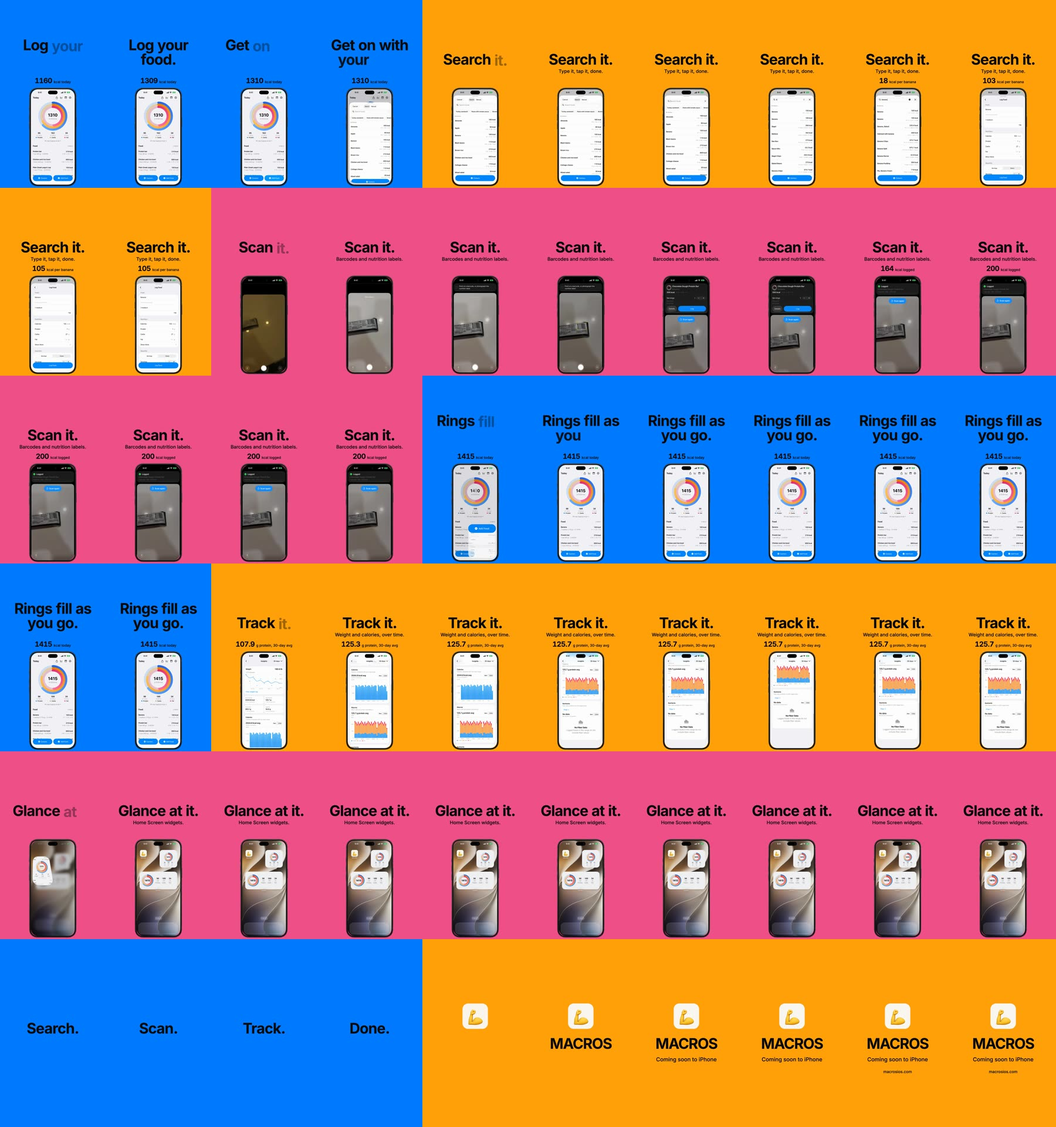
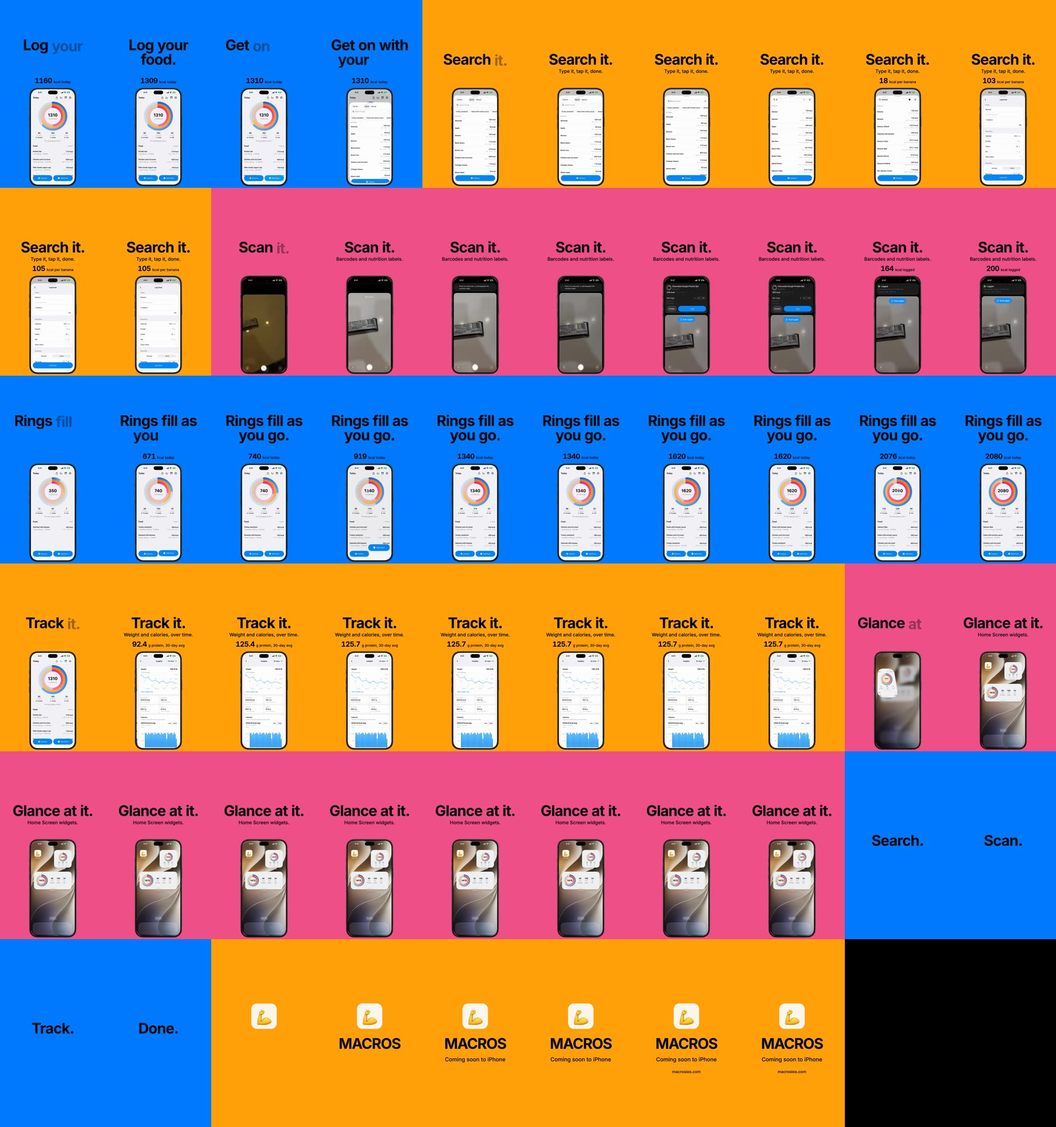
media: trailer v4 with real rings steps, Insights open, 29 s cut

diff --git a/tools/media/trailer/src/shots.ts b/tools/media/trailer/src/shots.ts
@@ -10,7 +10,10 @@ export type Phase = { at: number; words: string[] };
  * A number that counts beside the headline. Values come from what the recording shows.
  * A negative `at` starts the count before the cut, so the first frame is already moving.
  */
-export type Counter = { label: string; from: number; to: number; at: number; duration: number; decimals?: number };
+export type Counter = { label: string; from: number; to: number; at: number; duration: number; decimals?: number; steps?: CounterStep[] };
+
+/** A later move of the same counter, from wherever the previous move ended to `to`. */
+export type CounterStep = { to: number; at: number; duration: number };
 
 /** A full-screen 1320 x 2868 recording that plays inside the bezel. */
 export type Clip = { file: string; rate: number };
@@ -24,7 +27,7 @@ export type Shot =
 const none: Counter[] = [];
 const phase = (at: number, ...words: string[]): Phase => ({ at, words });
 
-// Cuts land on the 0.5 s grid. No clip plays faster than 1.2x.
+// Cuts land on the 0.5 s grid. No clip is sped up.
 export const SHOTS: Shot[] = [
   { kind: "device", start: 0, end: 2, color: COLORS.protein, clip: { file: "hook.mp4", rate: 1 },
     phases: [phase(0, "Log", "your", "food."), phase(1, "Get", "on", "with", "your", "day.")], support: "",
@@ -32,18 +35,23 @@ export const SHOTS: Shot[] = [
   { kind: "device", start: 2, end: 6, color: COLORS.carbs, clip: { file: "search.mp4", rate: 1 },
     phases: [phase(0, "Search", "it.")], support: "Type it, tap it, done.",
     counters: [{ label: "kcal per banana", from: 0, to: 105, at: 2.2, duration: 0.8 }] },
-  { kind: "device", start: 6, end: 12, color: COLORS.fat, clip: { file: "scan.mp4", rate: 1 },
+  { kind: "device", start: 6, end: 10, color: COLORS.fat, clip: { file: "scan.mp4", rate: 1 },
     phases: [phase(0, "Scan", "it.")], support: "Barcodes and nutrition labels.",
     counters: [{ label: "kcal logged", from: 0, to: 200, at: 3, duration: 0.8 }] },
-  { kind: "device", start: 12, end: 16, color: COLORS.protein, clip: { file: "rings.mp4", rate: 1 },
+  // rings.mp4: 0.6 s of Today at 350 kcal, then four 1.1 s moments on Today right after each Log Food (740, 1340, 1620, 2080 kcal).
+  { kind: "device", start: 10, end: 15, color: COLORS.protein, clip: { file: "rings.mp4", rate: 1 },
     phases: [phase(0, "Rings", "fill", "as", "you", "go.")], support: "",
-    counters: [{ label: "kcal today", from: 1310, to: 1415, at: -0.05, duration: 0.35 }] },
-  { kind: "device", start: 16, end: 20, color: COLORS.carbs, clip: { file: "insights.mp4", rate: 1.2 },
+    counters: [{ label: "kcal today", from: 350, to: 740, at: 0.6, duration: 0.45,
+      steps: [{ to: 1340, at: 1.7, duration: 0.45 }, { to: 1620, at: 2.8, duration: 0.45 }, { to: 2080, at: 3.9, duration: 0.45 }] }] },
+  { kind: "device", start: 15, end: 19, color: COLORS.carbs, clip: { file: "insights.mp4", rate: 1 },
     phases: [phase(0, "Track", "it.")], support: "Weight and calories, over time.",
-    counters: [{ label: "g protein, 30-day avg", from: 0, to: 125.7, at: -0.1, duration: 1, decimals: 1 }] },
-  { kind: "device", start: 20, end: 25, color: COLORS.fat, clip: { file: "home.mp4", rate: 1 },
+    counters: [{ label: "g protein, 30-day avg", from: 0, to: 125.7, at: 0.55, duration: 0.8, decimals: 1 }] },
+  { kind: "device", start: 19, end: 24, color: COLORS.fat, clip: { file: "home.mp4", rate: 1 },
     phases: [phase(0, "Glance", "at", "it.")], support: "Home Screen widgets.", counters: none },
-  { kind: "type", start: 25, end: 27, color: COLORS.protein,
+  { kind: "type", start: 24, end: 26, color: COLORS.protein,
     phases: [phase(0, "Search."), phase(0.5, "Scan."), phase(1, "Track."), phase(1.5, "Done.")], support: "", counters: none },
-  { kind: "end", start: 27, end: 30, color: COLORS.carbs, phases: [], support: "", counters: none },
+  { kind: "end", start: 26, end: 29, color: COLORS.carbs, phases: [], support: "", counters: none },
 ];
+
+export const FPS = 30;
+export const TOTAL_FRAMES = SHOTS[SHOTS.length - 1].end * FPS;

diff --git a/tools/media/trailer/scripts/prepare-sources.ts b/tools/media/trailer/scripts/prepare-sources.ts
@@ -1,7 +1,7 @@
 // Turns the raw 1320 x 2868 simulator takes into the 30 fps clips the composition reads.
 // Cuts only remove idle frames; no clip is sped up here.
 import { mkdirSync } from "node:fs";
-import { DEMO_VIDEO, PUBLIC_SOURCES, RAW_DIR, run } from "./paths.ts";
+import { DEMO_VIDEO, PUBLIC_SOURCES, RAW_DIR, RAW_DIR_V4, run } from "./paths.ts";
 
 type Segment = readonly [from: number, to: number];
 
@@ -9,7 +9,7 @@ const ENCODE = ["-an", "-c:v", "libx264", "-crf", "12", "-preset", "fast", "-r",
 
 /** Keeps the listed segments back to back (fps=30 first: simulator recordings are variable frame rate and drop idle frames); `holdEnd` repeats the last frame so a shot can rest on the result. */
 function cut(input: string, output: string, segments: Segment[], holdEnd = 0) {
-  const parts = segments.map(([from, to], i) => `[0:v]fps=30,trim=${from}:${to},setpts=PTS-STARTPTS[s${i}]`);
+  const parts = segments.map(([from, to], i) => `[0:v]fps=30,trim=start_frame=${Math.round(from * 30)}:end_frame=${Math.round(to * 30)},setpts=PTS-STARTPTS[s${i}]`);
   const joined = segments.map((_, i) => `[s${i}]`).join("");
   const hold = holdEnd > 0 ? `,tpad=stop_mode=clone:stop_duration=${holdEnd}` : "";
   const graph = `${parts.join(";")};${joined}concat=n=${segments.length}:v=1:a=0${hold}`;
@@ -37,8 +37,14 @@ const flow = `${RAW_DIR}/flow-take1.mov`;
 // Each moment appears once: the hook is Today before logging, Search stops at the Log tap, Rings starts at the dismissal.
 cut(flow, "hook.mp4", [[2.0, 4.0]]);
 cut(flow, "search.mp4", [[4.4, 5.3], [6.3, 7.6], [11.8, 12.6], [13.0, 13.9]], 0.1);
-cut(flow, "rings.mp4", [[14.0, 17.5]], 0.5);
 cut(flow, "home.mp4", [[17.6, 22.6]]);
-// Scan: camera, barcode, product card, Logged, from the original demo. It ends at 10.2 s, before the insights crossfade; the Logged card rests 2.1 s to make the 6 s shot.
-scan(DEMO_VIDEO, "scan.mp4", 6.3, 10.2, 10.2, 2.1);
-cut(`${RAW_DIR}/insights.mov`, "insights.mp4", [[1.5, 6.3]]);
+// Scan: camera, barcode, product card, Logged, from the original demo. It ends at 10.2 s, before the insights crossfade; the last frame rests 0.1 s to land the shot on the 0.5 s grid (4.0 s).
+scan(DEMO_VIDEO, "scan.mp4", 6.3, 10.2, 10.2, 0.1);
+
+// v4 takes (demo data, Today trimmed to one entry first). rings-take1: Today at 350 kcal, then four foods from the Add Food recents
+// (Turkey sandwich, Chicken and rice bowl, Pasta with tomato sauce, Salmon fillet). Each segment starts as the Log Food sheet leaves and
+// runs 1.1 s, so the ring finishes climbing and the new row shows (740, 1340, 1620, 2080 kcal). Sheets and idle time are cut.
+const rings = `${RAW_DIR_V4}/rings-take1.mov`;
+cut(rings, "rings.mp4", [[2.4, 3.0], [6.43, 7.53], [12.23, 13.33], [18.13, 19.23], [24.13, 25.23]]);
+// insights-take1: Today, tap the Insights button, the push, then rest on the top of Insights (4.0 s from the tap's lead-in).
+cut(`${RAW_DIR_V4}/insights-take1.mov`, "insights.mp4", [[4.2, 8.2]]);

diff --git a/tools/media/trailer/scripts/render.ts b/tools/media/trailer/scripts/render.ts
@@ -1,5 +1,6 @@
 // Renders the trailer MP4s and cover: bun run render <all | coming-soon | app-store | review | cover>
 import { OUT_DIR, run } from "./paths.ts";
+import { FPS, TOTAL_FRAMES } from "../src/shots.ts";
 import type { Props } from "../src/trailer.tsx";
 
 const COVER_FRAME = 30;
@@ -9,8 +10,9 @@ const remotion = (args: string[]) => run(["bunx", "remotion", ...args]);
 function renderVideo(props: Props, name: string) {
   const raw = `${OUT_DIR}/${name}-raw.mp4`;
   remotion(["render", "src/index.ts", "Trailer", raw, "--overwrite", `--props=${JSON.stringify(props)}`, "--codec=h264", "--crf=18", "--pixel-format=yuv420p", "--audio-codec=aac", "--enforce-audio-track"]);
-  // Remotion's AAC track runs a few ms long; trimming to 29.99 s keeps exactly 900 video frames and 30.000 s.
-  run(["ffmpeg", "-hide_banner", "-loglevel", "error", "-i", raw, "-map", "0", "-c", "copy", "-t", "29.99", "-movflags", "+faststart", "-y", `${OUT_DIR}/${name}.mp4`]);
+  // Remotion's AAC track runs a few ms long; ending the copy 10 ms before the last frame's end keeps exactly TOTAL_FRAMES video frames and a container duration of TOTAL_FRAMES / FPS.
+  const cutoff = (TOTAL_FRAMES / FPS - 0.01).toFixed(3);
+  run(["ffmpeg", "-hide_banner", "-loglevel", "error", "-i", raw, "-map", "0", "-c", "copy", "-t", cutoff, "-movflags", "+faststart", "-y", `${OUT_DIR}/${name}.mp4`]);
   run(["rm", raw]);
 }
 

diff --git a/tools/media/trailer/src/text.tsx b/tools/media/trailer/src/text.tsx
@@ -29,8 +29,12 @@ function activePhase(phases: Phase[], seconds: number): Phase | undefined {
 }
 
 const CounterView: React.FC<{ counter: Counter }> = ({ counter }) => {
+  const frame = useCurrentFrame();
+  const { fps } = useVideoConfig();
   const progress = useReveal(counter.at, counter.duration);
-  const value = counter.from + (counter.to - counter.from) * progress;
+  const moves = [counter, ...(counter.steps ?? [])];
+  const value = moves.reduce((from, move) =>
+    interpolate(frame, [move.at * fps, (move.at + move.duration) * fps], [from, move.to], { extrapolateLeft: "clamp", extrapolateRight: "clamp", easing: ease }), counter.from);
   // Hidden until the count starts, so no counter ever rests on its starting value.
   return <div style={{ display: "flex", justifyContent: "center", alignItems: "baseline", gap: 16, opacity: progress > 0 ? 1 : 0 }}>
     <span style={{ fontSize: 72, fontWeight: 700, letterSpacing: "-0.03em", fontVariantNumeric: "tabular-nums" }}>{value.toFixed(counter.decimals ?? 0)}</span>

diff --git a/tools/media/trailer/src/root.tsx b/tools/media/trailer/src/root.tsx
@@ -1,9 +1,10 @@
 import React from "react";
 import { Composition } from "remotion";
+import { FPS, TOTAL_FRAMES } from "./shots";
 import { Trailer, type Props } from "./trailer";
 
 const defaultProps: Props = { variant: "coming-soon", safeZones: false };
 
 export const Root: React.FC = () => (
-  <Composition id="Trailer" component={Trailer} width={1080} height={1920} fps={30} durationInFrames={900} defaultProps={defaultProps} />
+  <Composition id="Trailer" component={Trailer} width={1080} height={1920} fps={FPS} durationInFrames={TOTAL_FRAMES} defaultProps={defaultProps} />
 );

diff --git a/tools/media/trailer/scripts/paths.ts b/tools/media/trailer/scripts/paths.ts
@@ -6,6 +6,7 @@ const fromRoot = (path: string) => fileURLToPath(new URL(`../../../../${path}`, 
 export const REPO_ROOT = fromRoot("");
 export const OUT_DIR = fromRoot("build/marketing/trailer");
 export const RAW_DIR = fromRoot("build/marketing/trailer/sources/v3");
+export const RAW_DIR_V4 = fromRoot("build/marketing/trailer/sources/v4");
 export const PUBLIC_SOURCES = fromRoot("tools/media/trailer/public/sources");
 export const DEMO_VIDEO = fromRoot("web/public/media/macros-demo.d72c87d2.mp4");
 

diff --git a/docs/evidence/trailer/README.md b/docs/evidence/trailer/README.md
@@ -1,77 +1,63 @@
-# Launch trailer v3 render evidence
+# Launch trailer v4 render evidence
 
 Plan: `docs/plans/active/launch-trailer.md`. Project: `tools/media/trailer/`. Renders, raw takes, the Apple bezel and the badge stay in ignored folders.
 
-v3 keeps only the bold style. Every app shot is inside Apple's iPhone 18 Pro Max bezel at one fixed size and position. There are no bezel-free close-ups, no square widget crop and no push-ins. The restrained style and its renders were removed.
+v4 applies the owner's review to v3: Track it shows the act of opening Insights, Rings fills with real entries one after another, Scan loses its frozen hold, and the length is now 29.0 s. Everything else is unchanged: one bold style, Apple's iPhone 18 Pro Max bezel at one fixed size and position, no crops or push-ins.
 
 Toolchain: Bun 1.4.2, Remotion 4.0.543, ffmpeg, macOS. Renders are in `build/marketing/trailer/`: `coming-soon.mp4`, `app-store.mp4`, `review.mp4` (safe-zone outlines), `cover.png`, from `bun run render all`.
 
 ## Simulator steps
 
-Media simulator `D16C3D35-889F-404F-BDD4-C640A6DBC4EF` only, under `/tmp/macros-sim-locks/D16C3D35-889F-404F-BDD4-C640A6DBC4EF` (taken by `mkdir`, released by `rmdir`). The v2 Debug build of `origin/main` (`/tmp/macros-trailer-build`) was installed. Settings > Developer > Load Demo Data (Today 1310 kcal), 9:41 status bar override (full cellular, Wi-Fi, charged battery), `simctl io recordVideo --codec h264`. Taps came from `agent-device`. The simulator was shut down once mid-session to clear a stuck recorder (`Host recording is already in progress`) and booted again; the lock was kept. At the end the override was cleared, the simulator shut down and the lock removed. No other simulator was used and nothing was erased.
+Media simulator `D16C3D35-889F-404F-BDD4-C640A6DBC4EF` only, under `/tmp/macros-sim-locks/D16C3D35-889F-404F-BDD4-C640A6DBC4EF` (taken by `mkdir`, released by `rmdir`). The earlier Debug build of `origin/main` (`/tmp/macros-trailer-build`) was already installed and was reused. 9:41 status bar override (full cellular, Wi-Fi, charged battery). Taps and swipes came from the `axe` binary bundled with XcodeBuildMCP, run with `DEVELOPER_DIR=/Applications/Xcode.app/Contents/Developer` because the MCP's own Xcode path lacked SimulatorKit. Recording: `simctl io recordVideo --codec h264 --force`, stopped with SIGINT. At the end the override was cleared, the simulator shut down and the lock removed. No other simulator was used and nothing was erased or reset. The Home Screen was not touched.
 
-Raw takes (`build/marketing/trailer/sources/v3/`, 1320 x 2868 native, 9:41 status bar): `flow-take1.mov` (23.3 s), `insights.mov` (copied from the v2 take, 6.9 s). `scan-take2.mov` (19.4 s) is no longer used by any shot; it stays on disk. `scan-take1.mov` and `home-take1.mov` were rejected earlier takes (the Home Screen one still had other apps).
+Raw takes (`build/marketing/trailer/sources/v4/`, 1320 x 2868 native):
+
+- `rings-take1.mov` (25.4 s): Today first trimmed by swipe-deleting four of the five demo entries (350 kcal left, Oatmeal with banana). Then four times: Add Food, tap a recent food chip, Log Food.
+- `insights-take1.mov` (9.6 s): Today at 1310 kcal, tap the Insights button, rest on the top of Insights. Debug Pro was granted first (Settings > Developer), after reloading demo data. Demo data was reloaded again after the rings take, so Today read 1310 kcal.
 
 ## Sources per shot
 
 | Time | Shot | Source and in/out | Rate |
 | --- | --- | --- | --- |
-| 0-2 s | Hook | `flow-take1.mov` 2.0-4.0 s: Today at 1310 before any log | 1.0x |
-| 2-6 s | Search | `flow-take1.mov` 4.4-5.3, 6.3-7.6, 11.8-12.6, 13.0-13.9 s (+0.1 s hold): Add Food, "banana" results, Log Food form | 1.0x |
-| 6-12 s | Scan | `web/public/media/macros-demo.d72c87d2.mp4` 6.3-10.2 s (+2.1 s hold of the last frame), body crop x 112, y 222, 496 x 1004, status bar strip x 112, y 148-221 from 10.2 s: camera, barcode, Chocolate Dough Protein Bar (200 kcal), Logged | 1.0x |
-| 12-16 s | Rings | `flow-take1.mov` 14.0-17.5 s (+0.5 s hold): Log Food tapped, sheet dismisses, 1310 to 1415 | 1.0x |
-| 16-20 s | Track | `insights.mov` 1.5-6.3 s | 1.2x |
-| 20-25 s | Glance | `flow-take1.mov` 17.6-22.6 s: Home Screen right after logging, widgets show 1415 | 1.0x |
-| 25-30 s | Type, end card | none | |
+| 0-2 s | Hook | `v3/flow-take1.mov` 2.0-4.0 s | 1.0x |
+| 2-6 s | Search | `v3/flow-take1.mov` 4.4-5.3, 6.3-7.6, 11.8-12.6, 13.0-13.9 s (+0.1 s hold) | 1.0x |
+| 6-10 s | Scan | `web/public/media/macros-demo.d72c87d2.mp4` 6.3-10.2 s (+0.1 s hold of the last frame), same crop and status bar strip as v3 | 1.0x |
+| 10-15 s | Rings | `v4/rings-take1.mov` 2.4-3.0, 6.43-7.53, 12.23-13.33, 18.13-19.23, 24.13-25.23 s | 1.0x |
+| 15-19 s | Track | `v4/insights-take1.mov` 4.2-8.2 s: Today, tap, push, rest on the top of Insights | 1.0x |
+| 19-24 s | Glance | `v3/flow-take1.mov` 17.6-22.6 s | 1.0x |
+| 24-29 s | Type, end card | none | |
 
-Each real moment appears once: the hook is Today before logging, Search ends before the Log tap, Rings starts at the dismissal. Idle time was cut; nothing is sped up except Insights at 1.2x. The Scan source ends at 10.2 s, before the "Track it." pill and the crossfade into Insights. Its Logged card holds for 2.1 s to make the shot 6.0 s, so Scan is not sped up either.
+## What was cut
 
-## Scan footage chosen
+- Scan: the 2.1 s frozen hold is gone. The footage (3.9 s) now ends the shot at 4.0 s, the nearest 0.5 s grid point (0.1 s hold).
+- Rings: all sheets, the Add Food and Log Food screens and idle time. Each Today moment starts as the Log Food sheet leaves and lasts 1.1 s, long enough for the ring animation to finish. The first 0.6 s is Today at 350 kcal.
+- Track: no scrolling. The "Nutrients / No Fiber Data" section never appears; the shot ends on the top of Insights.
+- The total went from 30.0 s to 29.0 s. Later shots moved 1 s earlier to fit the 0.5 s grid.
 
-The Scan shot uses the original demo footage, `web/public/media/macros-demo.d72c87d2.mp4` (720 x 1280, 60 fps), the same source v2 used. The native 1320 x 2868 take `scan-take2.mov` is no longer used. The clip is not upscaled: 496 source pixels fit the 449-pixel opening at about 0.9x.
+## Rings kcal steps
 
-Splice: the body is the crop below the burnt-in "Scan it." pill (x 112, y 222, 496 x 1004). The pill sits over the real status bar until about 10 s, so the status bar strip is taken from 10.2 s, when the pill is gone: rows 148-221 show the recording's own 9:41 status bar and battery. Rows 0-145 are the page's light grey background, not a status bar, so they are not used. The strip stacks above the body to make 496 x 1078. That is the same aspect as the 1320 x 2868 screen opening, so the cover fit crops almost nothing. The seam looks clean at full size (checked at 7.0 s). Nothing is drawn or faked.
+Counter above the phone follows the real value on Today: 350 (start) then 740 (Turkey sandwich, +390), 1340 (Chicken and rice bowl, +600), 1620 (Pasta with tomato sauce, +280), 2080 (Salmon fillet, +460). Macro totals on Today: protein 38, 86, 95, 145 g; carbs 104, 174, 226, 226 g; fat 19, 33, 37, 65 g. Food list grows from 2 to 5 items. Each step counts over 0.45 s. No invented numbers; Salmon fillet has no carbs value in the app, so carbs stays at 226.
 
-Counter: 0 to 200 kcal, the Chocolate Dough Protein Bar result, starting 3.0 s into the shot as the card becomes Logged. It replaces the Nutella 539 kcal of the scan-take2 take. The Device component now sets `objectFit: cover`; the other clips already have the screen's aspect, so their render is unchanged.
-
-## Home Screen changes (media simulator, undo list)
-
-The Home Screen was cleaned so no third-party content shows. Only long-press > "Remove from Home Screen" was used, so the apps remain in the App Library and nothing was deleted or erased. Reminders and Preview were removed that way (both seen in the menus); I removed the other stock icons the same way, but I did not record the full list. To undo: open the App Library on the media simulator, long-press each app and choose "Add to Home Screen". The first page now has only the MACROS icon, the small MACROS widget and the large MACROS widget (both were already on the page, and show 1415 right after the logging take).
+Other counters are as in v3: Hook 0 to 1310, Search 0 to 105, Scan 0 to 200, Track 0 to 125.7 g protein (30-day average, from the Insights screen).
 
 ## Contrast (`bun run contrast`)
 
-| Text | Background | Ratio |
-| --- | --- | --- |
-| `#0A0A0C` | protein `#007AFF` | 4.92:1 |
-| `#0A0A0C` | carbs `#FF9F0A` | 9.62:1 |
-| `#0A0A0C` | fat `#EF4F87` | 5.78:1 |
-
-All at least 4.5:1. White on these colours would be 4.02, 2.06 and 3.42:1, so it is not used.
-
-## Counters
-
-Values match the recordings. Hook 0 to 1310 kcal (Today's ring). Search 0 to 105 kcal (Banana's Log Food form). Scan 0 to 200 kcal (Chocolate Dough Protein Bar, 1 serving, Logged). Rings 1310 to 1415 kcal. Track 0 to 125.7 g protein 30-day average (Insights). The Track counter starts at the cut (it reads 107.9 about 0.1 s in) and lands within 1 s. Counters stay hidden until counting begins, so none rests at 0.
+Near-black `#0A0A0C` on protein `#007AFF` 4.92:1, carbs `#FF9F0A` 9.62:1, fat `#EF4F87` 5.78:1. Unchanged; all at least 4.5:1.
 
 ## Checks run
 
-- ffprobe on all three MP4s: h264, yuv420p, 1080 x 1920, 900 frames (counted), 30.000 s, stereo AAC 48 kHz.
-- Scan clip `scan.mp4`: 496 x 1078, yuv420p, 180 frames, 6.000 s.
-- `bunx tsc --noEmit` and `git diff --check`: both pass.
-- Full-size frames at 7.0, 9.0 and 11.0 s viewed: bezel intact, no pill, real 9:41 status bar, counter 200 kcal logged at 11.0 s.
-- Contact sheet and review sheet regenerated from the new renders.
+All three MP4s: h264, yuv420p, 1080 x 1920, 30 fps, 870 frames (counted), 29.000 s (frames / 30), stereo AAC 48 kHz. The `render.ts` remux now takes its length from `TOTAL_FRAMES` in `src/shots.ts`, so any whole-frame duration gives an exact frame count. `bunx tsc --noEmit` and `git diff --check` pass. Clips (`prepare:sources`): hook 60, search 120, scan 120, rings 150, insights 120, home 150 frames. Text stays inside x 120-960, y 380-1440 as in v3 (layout unchanged).
 
-## Images
+## Images (5, about 0.85 MiB)
 
 - `contact-2fps.jpg`: 10 x 6 at 180 px.
 - `review-1fps.jpg`: 10 x 3 with safe-zone outlines.
-- `frames-7-9-11s.jpg`: full-size frames at 7.0, 9.0 and 11.0 s, side by side. Replaces `frames-5-10.5-23s.jpg`.
-- `end-cards-29s.jpg`: coming-soon and app-store at 29.0 s.
-
-Total about 0.84 MiB.
+- `rings-steps.jpg`: Rings shot at 11.5, 12.6, 13.7 and 14.8 s: 740, 1340, 1620, 2080 kcal.
+- `insights-17.5s.jpg`: Insights shot, top of the screen.
+- `end-cards-28.5s.jpg`: coming-soon and app-store at 28.5 s.
 
 ## Not verified
 
-- I did not keep a list of every icon removed from the Home Screen; the App Library undo above works per app. I did not test it.
-- The 9.0 s frame shows the original recording's own card cross-fade (ghosted text). It is not edited.
+- No audio beyond silence; the owner adds music.
 - The bezel rules and badge placement were checked by eye, not by Apple.
-- No audio beyond silence. The owner adds music.
+- The Scan footage's own card cross-fade (ghosted text) is original and not edited.

diff --git a/tools/media/trailer/README.md b/tools/media/trailer/README.md
@@ -1,6 +1,6 @@
 # MACROS launch trailer
 
-This Remotion project renders the 30-second vertical MACROS trailer in one bold style: full-screen ring-colour fields, near-black 150 px headlines revealed word by word, small counters taken from the footage, and every app shot inside Apple's unmodified iPhone 18 Pro Max bezel at one fixed size and place. No push-ins, no bezel-free crops. Plan: `docs/plans/active/launch-trailer.md`. Evidence: `docs/evidence/trailer/`.
+This Remotion project renders the 29-second vertical MACROS trailer in one bold style: full-screen ring-colour fields, near-black 150 px headlines revealed word by word, small counters taken from the footage, and every app shot inside Apple's unmodified iPhone 18 Pro Max bezel at one fixed size and place. No push-ins, no bezel-free crops. Plan: `docs/plans/active/launch-trailer.md`. Evidence: `docs/evidence/trailer/`.
 
 Two end cards (`coming-soon`, `app-store`). Props: `variant`, `safeZones`.
 
@@ -16,7 +16,7 @@ bun run render app-store          # one render (coming-soon | app-store | review
 bun run contrast                  # contrast ratios on the three colour fields
 ```
 
-Each MP4 is 1080 × 1920, 30 fps, 900 frames, h264 yuv420p, stereo AAC (silent). `scripts/render.ts` renders, then remuxes to exactly 900 frames and 30.000 s. Check with ffprobe.
+Each MP4 is 1080 × 1920, 30 fps, 870 frames, h264 yuv420p, stereo AAC (silent). The length comes from the last shot's end in `src/shots.ts` (`TOTAL_FRAMES`); any whole-frame duration works. `scripts/render.ts` renders, then remuxes to exactly that frame count and `frames / 30` seconds. Check with ffprobe.
 
 ## Shot table
 
@@ -24,16 +24,16 @@ All shots live in `src/shots.ts` as data: time, colour, headline phases, support
 
 ## Sources
 
-None of these are tracked. Raw takes are native 1320 x 2868 simulator recordings from the media simulator, in `build/marketing/trailer/sources/v3/`. `bun run prepare:sources` cuts them into the clips the composition reads (`tools/media/trailer/public/sources/`, ignored): it normalises to 30 fps, removes idle frames and never speeds a clip up.
+None of these are tracked. Raw takes are native 1320 x 2868 simulator recordings from the media simulator, in `build/marketing/trailer/sources/v3/` (hook, search, home) and `v4/` (rings, insights). `bun run prepare:sources` cuts them into the clips the composition reads (`tools/media/trailer/public/sources/`, ignored): it normalises to 30 fps, removes idle frames and never speeds a clip up.
 
 | Raw take | Clip | Shot |
 | --- | --- | --- |
-| `flow-take1.mov` 2.0-4.0 s | `hook.mp4` | Hook: Today before logging |
-| `flow-take1.mov` 4.4-5.3, 6.3-7.6, 11.8-12.6, 13.0-13.9 s | `search.mp4` | Search it. |
-| `web/public/media/macros-demo.d72c87d2.mp4` 6.3-10.2 s, cropped to x 112, y 222 (496 x 1028) under a status bar strip from 10.2 s, Logged card held 2.1 s | `scan.mp4` | Scan it. |
-| `flow-take1.mov` 14.0-17.5 s, last frame held 0.5 s | `rings.mp4` | Rings fill as you go. |
-| `insights.mov` 1.5-6.3 s | `insights.mp4` | Track it. (1.2x) |
-| `flow-take1.mov` 17.6-22.6 s | `home.mp4` | Glance at it. |
+| `v3/flow-take1.mov` 2.0-4.0 s | `hook.mp4` | Hook: Today before logging |
+| `v3/flow-take1.mov` 4.4-5.3, 6.3-7.6, 11.8-12.6, 13.0-13.9 s | `search.mp4` | Search it. |
+| `web/public/media/macros-demo.d72c87d2.mp4` 6.3-10.2 s, cropped to x 112, y 222 (496 x 1028) under a status bar strip from 10.2 s, last frame held 0.1 s | `scan.mp4` | Scan it. (4.0 s) |
+| `v4/rings-take1.mov` 2.4-3.0, 6.43-7.53, 12.23-13.33, 18.13-19.23, 24.13-25.23 s | `rings.mp4` | Rings fill as you go. (5.0 s) |
+| `v4/insights-take1.mov` 4.2-8.2 s | `insights.mp4` | Track it. (4.0 s, 1.0x) |
+| `v3/flow-take1.mov` 17.6-22.6 s | `home.mp4` | Glance at it. |
 
 The other files are not tracked either. Copy them once:
 
@@ -47,7 +47,7 @@ Bezel: download `https://devimages-cdn.apple.com/design/resources/download/Bezel
 
 ### Recording the takes
 
-Follow `docs/app-store/creative-assets/README.md`: lock the media simulator, build Debug for it, install, Settings > Developer > Load Demo Data, override the status bar to 9:41 with full signal, Wi-Fi and battery, then `xcrun simctl io <udid> recordVideo --codec h264 --force <file>.mov` (stop with SIGINT). Flow take: from Today, Add Food, search "banana", Banana, Log Food, then the Home Screen with only the MACROS icon and widgets. Scan take: Camera, photo picker, a barcode image, Log, Logged. Reload demo data before each take so the totals start at 1310 kcal. Recordings must be full screen with the 9:41 status bar.
+Follow `docs/app-store/creative-assets/README.md`: lock the media simulator, build Debug for it, install, Settings > Developer > Load Demo Data, override the status bar to 9:41 with full signal, Wi-Fi and battery, then `xcrun simctl io <udid> recordVideo --codec h264 --force <file>.mov` (stop with SIGINT). Flow take: from Today, Add Food, search "banana", Banana, Log Food, then the Home Screen with only the MACROS icon and widgets. Scan take: Camera, photo picker, a barcode image, Log, Logged. Reload demo data before each take so the totals start at 1310 kcal. Rings take: after Load Demo Data swipe-delete Today's entries down to Oatmeal (350 kcal), start recording, then four times Add Food, a recent food chip (Turkey sandwich, Chicken and rice bowl, Pasta with tomato sauce, Salmon fillet), Log Food. Insights take: from Today (1310 kcal), tap the Insights button and rest on the top (Grant Debug Pro first). Recordings must be full screen with the 9:41 status bar.
 
 ## Beat sheet
 
@@ -59,15 +59,15 @@ The grid is 120 BPM, so one beat is 0.5 s. Cuts land on it.
 | 1.0 | "Get on with your day." |
 | 2.0 | "Search it." Banana search, counter 105 kcal |
 | 6.0 | "Scan it." Camera, barcode, result, Logged, counter 200 kcal |
-| 12.0 | "Rings fill as you go." Today rolls 1310 to 1415 |
-| 16.0 | "Track it." Insights, counter 125.7 g protein |
-| 20.0 | "Glance at it." Clean Home Screen, widgets at 1415 |
-| 25.0 | "Search." |
-| 25.5 | "Scan." |
-| 26.0 | "Track." |
-| 26.5 | "Done." |
-| 27.0 | End card, app icon |
-| 27.5 | "MACROS" |
-| 28.0 | "Coming soon to iPhone" or the App Store badge |
-| 29.0 | `macrosios.com` |
-| 30.0 | End |
+| 10.0 | "Rings fill as you go." Four logs, each back on Today: counter 350, 740, 1340, 1620, 2080 kcal |
+| 15.0 | "Track it." Tap Insights, rest on its top, counter 125.7 g protein |
+| 19.0 | "Glance at it." Clean Home Screen, widgets at 1415 |
+| 24.0 | "Search." |
+| 24.5 | "Scan." |
+| 25.0 | "Track." |
+| 25.5 | "Done." |
+| 26.0 | End card, app icon |
+| 26.5 | "MACROS" |
+| 27.0 | "Coming soon to iPhone" or the App Store badge |
+| 28.0 | `macrosios.com` |
+| 29.0 | End |

diff --git a/docs/plans/active/launch-trailer.md b/docs/plans/active/launch-trailer.md
@@ -4,7 +4,7 @@ Status: active. Owner request 2026-11-11: replace the bland screen-recording dem
 
 ## Output
 
-- 1080 × 1920, 30 fps, H.264 MP4, 30.0 s (900 frames), with a silent stereo AAC track so editors accept it.
+- 1080 × 1920, 30 fps, H.264 MP4, 29.0 s (870 frames; any whole-frame length on the 0.5 s grid is supported), with a silent stereo AAC track so editors accept it.
 - Two end-card variants from one project: `coming-soon` ("Coming soon to iPhone") and `app-store` (Apple's black "Download on the App Store" badge, static).
 - A cover frame PNG (first strong frame) for Reels/TikTok covers.
 - Renders go to ignored `build/marketing/trailer/`. Only code, README and evidence are tracked.
@@ -47,14 +47,14 @@ One bold style, tidied toward Apple's announcement look: centred, one idea at a 
 | --- | --- | --- |
 | 0-2 | Hook | Today before logging, 1310 kcal. "Log your food." then, on the 1.0 s beat, "Get on with your day." Counter 0 to 1310. |
 | 2-6 | Search | "Search it." Type it, tap it, done. Search "banana", Banana, the Log Food form (stops before the Log tap). Counter 105 kcal per banana. |
-| 6-12 | Scan | "Scan it." Barcodes and nutrition labels. Camera, barcode, Chocolate Dough Protein Bar result card (200 kcal), Logged. Counter 200 kcal logged. |
-| 12-16 | Rings | "Rings fill as you go." Banana logged: the sheet dismisses and Today rolls 1310 to 1415 kcal. |
-| 16-20 | Track | "Track it." Insights scroll. Counter 125.7 g protein, 30-day avg. |
-| 20-25 | Glance | "Glance at it." The full Home Screen page with only the MACROS widgets and icon, showing 1415. |
-| 25-27 | Type | "Search." "Scan." "Track." "Done." on successive beats. |
-| 27-30 | End card | App icon, "MACROS", then "Coming soon to iPhone" or the App Store badge; `macrosios.com` small. |
+| 6-10 | Scan | "Scan it." Barcodes and nutrition labels. Camera, barcode, Chocolate Dough Protein Bar result card (200 kcal), Logged. Counter 200 kcal logged. Original footage ends at 10.2 s, no frozen hold beyond 0.1 s. |
+| 10-15 | Rings | "Rings fill as you go." Four real logs, only the moments on Today after each: 350, 740, 1340, 1620, 2080 kcal; ring, macro totals and Food list update each time. |
+| 15-19 | Track | "Track it." Tap Insights on Today and rest on the top of Insights. Counter 125.7 g protein, 30-day avg. |
+| 19-24 | Glance | "Glance at it." The full Home Screen page with only the MACROS widgets and icon, showing 1415. |
+| 24-26 | Type | "Search." "Scan." "Track." "Done." on successive beats. |
+| 26-29 | End card | App icon, "MACROS", then "Coming soon to iPhone" or the App Store badge; `macrosios.com` small. |
 
-Every claim must match current app behaviour. Recordings may be trimmed (prefer cutting idle frames) and played at most 1.5×; no faked UI. The v3 edit plays no clip faster than 1.2× (only Insights, at 1.2×).
+Every claim must match current app behaviour. Recordings may be trimmed (prefer cutting idle frames) and played at most 1.5×; no faked UI. The current edit plays every clip at 1.0×.
 
 ## Sources
 
@@ -62,7 +62,7 @@ Full-resolution simulator recordings on the Mac (1320 × 2868, 30 fps): App Stor
 
 ## Validation
 
-- Render both variants; check duration 30.0 s, 900 frames, 1080 × 1920, H.264, AAC silent track.
+- Render both variants; check duration 29.0 s, 870 frames, 1080 × 1920, H.264, AAC silent track.
 - Contact sheet at 2 fps, a safe-zone overlay sheet, and the end cards, tracked under `docs/evidence/trailer/` within the 5-image, 2 MiB policy.
 - Check every shot against the Apple rules above.
 
